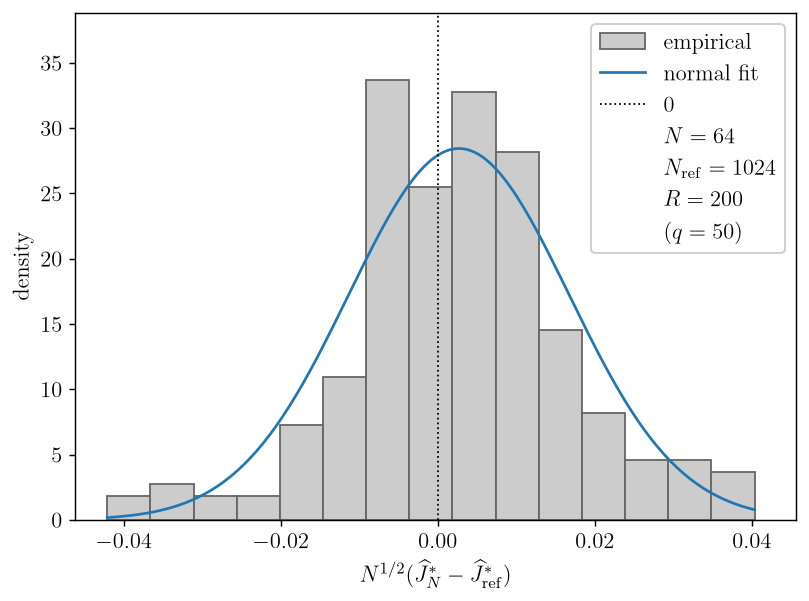
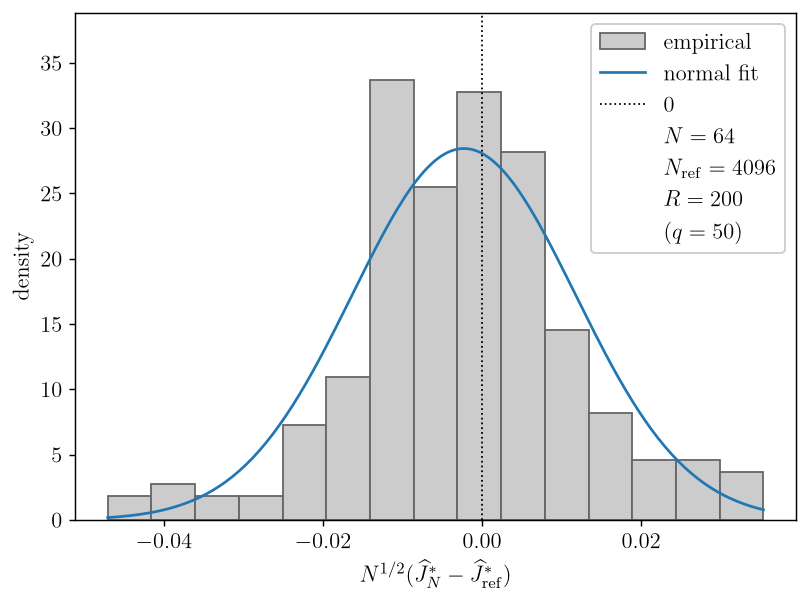
Batch reactor: add CVaR beta=0.5, consistent plot styling, README polish
- Add a 4th policy, CVaR beta=0.5, ordered by risk aversion (nominal /
  risk-neutral / CVaR 0.5 / CVaR 0.95); 4-tuple LINESTYLES/COLORS threaded
  through every overlay, the per-policy control/state plots, and the tables
- Yield distribution: x-axis markers (filled = mean, open = worst-5%) with the
  marker key moved into the legend; consistent per-policy color + line style
  across all figures (fixes cycle-color drift); usetex-safe title/labels
- clt_batch_reactor: N_REF 1024 -> 4096 (reference solve); CLT figures re-rendered
- README: CVaR written as CVaR_beta(F) with the epigraph joint-minimization
  reformulation; all math rewritten in plain LaTeX (drop \left,\Bigl,\;,\!,\text
  so GitHub renders it); MPLBACKEND=Agg note removed; "s.d." spelled out; beta=0.5
  woven through the tables and narrative; section retitled
- Regenerate all affected figures in usetex for font consistency

diff --git a/demo/batch_reactor/saa_batch_reactor.py b/demo/batch_reactor/saa_batch_reactor.py
@@ -61,7 +61,8 @@ OOS_SIZE = 512      # fresh out-of-sample draw for the OOS-s.d. plug-in
 STEPS = 10          # RK4 sub-steps per control interval (accurate rollout)
 T_LO, T_HI = 340.0, 420.0       # temperature box (control bounds)
 K20_LO, K20_HI = 500.0, 2000.0  # k20 uncertainty interval (Sec. 3.1)
-LINESTYLES = ("-", "--", "-.")  # nominal / risk-neutral / CVaR -- distinct line types
+LINESTYLES = ("-", "--", "-.", ":")   # nominal / risk-neutral / CVaR 0.5 / CVaR 0.95
+COLORS = ("C0", "C1", "C2", "C3")     # same order -- consistent across every figure
 
 
 def make_sampler():
@@ -140,14 +141,15 @@ def b_trajectory_stats(model, w_opt, samples):
     return tgrid, B.mean(axis=0), B.std(axis=0)
 
 
-def plot_states_B(prefix, label, tgrid, mean, std, ylim):
-    # Product-only state plot: the [B] ensemble mean E[B(t, xi)] with a +/- 3 s.d.
-    # band over the k20 draw -> output/controls-state/<prefix>_states.png. The
-    # y-axis is shared across policies for a direct spread comparison.
+def plot_states_B(prefix, label, tgrid, mean, std, ylim, color="C1"):
+    # Product-only state plot: the [B] ensemble mean E[B(t, xi)] with a +/- 3
+    # standard-deviation band over the k20 draw -> output/controls-state/
+    # <prefix>_states.png. The y-axis is shared across policies for a direct spread
+    # comparison; the color matches the policy's color in the overlay figures.
     fig, ax = plt.subplots()
-    ax.plot(tgrid, mean, color="C1", label=r"%s  $\mathbb{E}[B(t,\xi)]$" % label)
-    ax.fill_between(tgrid, mean - 3.0 * std, mean + 3.0 * std, color="C1",
-                    alpha=0.2, label=r"$\pm 3$ s.d.")
+    ax.plot(tgrid, mean, color=color, label=r"%s  $\mathbb{E}[B(t,\xi)]$" % label)
+    ax.fill_between(tgrid, mean - 3.0 * std, mean + 3.0 * std, color=color,
+                    alpha=0.2, label=r"$\pm 3$ standard deviations")
     ax.set_ylim(*ylim)
     ax.set_xlabel(r"$t$")
     ax.set_ylabel(r"$[B]$")
@@ -163,9 +165,10 @@ def plot_all_controls(model, policies, savepath):
     # over (t_k, t_{k+1}]); the leading NaN matches len(tgrid).
     tgrid = np.array([model.mesh_width * k for k in range(model.nintervals + 1)])
     fig, ax = plt.subplots()
-    for (label, w_opt), ls in zip(policies, LINESTYLES):
+    for (label, w_opt), ls, color in zip(policies, LINESTYLES, COLORS):
         u = np.asarray(w_opt, float).ravel()[:model.nintervals]   # front block = T(t)
-        ax.step(tgrid, np.concatenate([[np.nan], u]), where="pre", ls=ls, label=label)
+        ax.step(tgrid, np.concatenate([[np.nan], u]), where="pre", ls=ls,
+                color=color, label=label)
     ax.set_ylim(T_LO, T_HI)
     ax.set_yticks(np.arange(T_LO, T_HI + 1.0, 20.0))
     ax.set_xlabel(r"$t$")
@@ -193,8 +196,9 @@ def plot_yield_vs_k20(model, policies, savepath):
     # nominal k20 for a flatter, higher curve in the worst-case tail).
     k20_grid = np.linspace(K20_LO, K20_HI, 151)
     fig, ax = plt.subplots()
-    for (label, w_opt), ls in zip(policies, LINESTYLES):
-        ax.plot(k20_grid, terminal_B(model, w_opt, k20_grid), ls=ls, label=label)
+    for (label, w_opt), ls, color in zip(policies, LINESTYLES, COLORS):
+        ax.plot(k20_grid, terminal_B(model, w_opt, k20_grid), ls=ls, color=color,
+                label=label)
     ax.axvline(1000.0, color="0.6", lw=0.8, ls=":")      # nominal k20
     ax.set_xlabel(r"$k_{20}$")
     ax.set_ylabel(r"$[B](t_f)$")
@@ -227,20 +231,31 @@ def risk_illustration(model, policies, savepath, n_oos=2000, seed=7):
     fig, ax = plt.subplots()
     print("\n{:>16s}  {:>10s}  {:>12s}  {:>10s}".format(
         "policy", "E[B]", "worst-5% B", "min B"))
-    for label, w_opt in policies:
+    for (label, w_opt), ls, color in zip(policies, LINESTYLES, COLORS):
         B = terminal_B(model, w_opt, oos)
         var5 = np.quantile(B, 0.05)                  # 5% Value-at-Risk (yield)
         cvar5 = float(B[B <= var5].mean())           # mean of the worst 5% yields
-        _, _, patches = ax.hist(B, bins=50, histtype="step", density=True, lw=1.5,
-                                label=label)
-        color = patches[0].get_edgecolor()
-        ax.axvline(float(B.mean()), color=color, ls="-", lw=1.0)   # mean
-        ax.axvline(cvar5, color=color, ls="--", lw=1.0)            # worst-5% mean
+        # Per-policy line style AND color (solid/dashed/dash-dot, C0/C1/C2) match the
+        # control and yield-vs-k20 plots, so a policy reads the same way everywhere.
+        ax.hist(B, bins=50, histtype="step", density=True, lw=1.5,
+                ls=ls, color=color, label=label)
+        mean_B = float(B.mean())
+        # Mean and worst-5% marked on the x-axis (clearer than thin full-height guide
+        # lines against the histogram): filled up-triangle = mean, open = worst-5%.
+        ax.plot(mean_B, 0, marker="^", color=color, ms=9,
+                clip_on=False, zorder=5)
+        ax.plot(cvar5, 0, marker="^", mfc="white", mec=color, mew=1.3, ms=9,
+                clip_on=False, zorder=5)
         print("{:>16s}  {:>10.4f}  {:>12.4f}  {:>10.4f}".format(
             label, float(B.mean()), cvar5, float(B.min())))
     ax.set_xlabel(r"$[B](t_f)$")
     ax.set_ylabel(r"density over $k_{20}\sim$ truncnorm")
-    ax.set_title(r"solid = mean $\mathbb{E}[B]$,  dashed = worst-5\% mean")
+    # Neutral proxy handles so the legend (not the title) explains the marker shapes;
+    # color still encodes the policy. Filled = mean, open = worst-5% mean.
+    ax.plot([], [], ls="none", marker="^", color="0.3", ms=9,
+            label=r"mean $\mathbb{E}[B]$")
+    ax.plot([], [], ls="none", marker="^", mfc="white", mec="0.3", mew=1.3, ms=9,
+            label=r"worst-5\% mean")
     ax.grid(True)
     ax.legend()
     fig.savefig(savepath)
@@ -289,12 +304,17 @@ def main():
     saa_rn, w_rn = solves[N_full][0], solves[N_full][1]
 
     # CVaR risk-averse on the SAME N-scenario ensemble (beta -> 1 approaches the
-    # paper's minimax / worst case): beta = 0.95 optimizes the mean of the worst 5%
-    # terminal-yield tail.
+    # paper's minimax / worst case). Two points on the risk-aversion dial: beta = 0.5
+    # optimizes the mean of the worst 50% terminal-yield tail, beta = 0.95 the worst
+    # 5%. beta = 0.95 is the one carried into the statistical-inference section below.
+    beta_mid = 0.5
+    saa_cv_mid, w_cv_mid, _ = solve_saa(model, samples, beta=beta_mid)
+    cvar_mid_label = r"CVaR $\beta={}$".format(beta_mid)
     beta = 0.95
     saa_cv, w_cv, f_cv = solve_saa(model, samples, beta=beta)
     cvar_label = r"CVaR $\beta={}$".format(beta)
-    policies = [("nominal", w_nom), ("risk-neutral", w_rn), (cvar_label, w_cv)]
+    policies = [("nominal", w_nom), ("risk-neutral", w_rn),
+                (cvar_mid_label, w_cv_mid), (cvar_label, w_cv)]
 
     # Per-policy control trajectories, then the product-only B-state ensembles.
     # Every control is simulated across the SAME full k20 ensemble, so the +/- 3
@@ -303,17 +323,20 @@ def main():
     # y-axis (the nominal control, tuned to k20 = 1000, spreads most in the tail).
     plot_control(saa_nom, w_nom, "nominal", "nominal")
     plot_control(saa_rn, w_rn, "risk-neutral", "risk-neutral")
+    plot_control(saa_cv_mid, w_cv_mid, "cvar-{:.2f}".format(beta_mid), cvar_mid_label)
     plot_control(saa_cv, w_cv, "cvar-{:.2f}".format(beta), cvar_label)
 
     state_specs = [("nominal", "nominal", w_nom),
                    ("risk-neutral", "risk-neutral", w_rn),
+                   ("cvar-{:.2f}".format(beta_mid), cvar_mid_label, w_cv_mid),
                    ("cvar-{:.2f}".format(beta), cvar_label, w_cv)]
     stats = {prefix: b_trajectory_stats(model, w, samples)
              for prefix, _, w in state_specs}
     ymax = max(float((m + 3.0 * s).max()) for _, m, s in stats.values())
-    for prefix, lab, _ in state_specs:
+    for (prefix, lab, _), color in zip(state_specs, COLORS):
         tgrid, mean, std = stats[prefix]
-        plot_states_B(prefix, lab, tgrid, mean, std, ylim=(0.0, 1.05 * ymax))
+        plot_states_B(prefix, lab, tgrid, mean, std, ylim=(0.0, 1.05 * ymax),
+                      color=color)
 
     # Paper Table 1 + Figure 2 from the solved controls; the all-policy control
     # overlay; and the out-of-sample yield distribution illustrating the risk
@@ -412,7 +435,7 @@ def main():
     # reported below (subtract from 0 to read it as a bound on the expected yield).
     print("\n95% confidence interval for J_hat_N* = E[-B] (N = {}):".format(N_full))
     if plugin95 is not None:
-        print("  plug-in (in-sample s.d.) : [{:.6e}, {:.6e}]  half-width {:.6e}"
+        print("  plug-in (in-sample standard deviation) : [{:.6e}, {:.6e}]  half-width {:.6e}"
               .format(plugin95["lo"], plugin95["hi"], plugin95["halfwidth"]))
     if oos95 is not None:
         print("  plug-in (out-of-sample)  : [{:.6e}, {:.6e}]  half-width {:.6e}"

diff --git a/demo/batch_reactor/clt_batch_reactor.py b/demo/batch_reactor/clt_batch_reactor.py
@@ -79,7 +79,7 @@ def make_ipopt_solve(model, tol=1e-8):
 
 # -- study parameters --------------------------------------------------------
 NS = (32, 64, 128)     # sample sizes for the statistic
-N_REF = 1024           # independent reference sample size (proxies J*)
+N_REF = 4096           # independent reference sample size (proxies J*)
 R = 200                # replicate SAA solves per sample size
 ROOT_SEED = 12345      # root entropy; independent child streams are spawned from it
 

diff --git a/demo/batch_reactor/README.md b/demo/batch_reactor/README.md
@@ -17,7 +17,7 @@ The paper's three strategies map directly onto the sample-average approximation
 | --- | --- | --- |
 | nominal | **nominal** | solve at the mean $k_{20} = 1000$ |
 | robust ($\min_u \mathbb{E}[J]$) | **risk-neutral SAA** | optimize the *expected* yield over $k_{20}$ |
-| minimax (worst case) | **CVaR risk-averse** | optimize the worst $(1-\beta)$ tail; $\beta \to 1 \approx$ minimax |
+| minimax (worst case) | **CVaR risk-averse** ($\beta = 0.5, 0.95$) | optimize the worst $(1-\beta)$ tail; two points on the risk dial, $\beta \to 1 \approx$ minimax |
 
 ## The model — [batch_reactor.py](batch_reactor.py)
 
@@ -26,7 +26,7 @@ With $x_1 = [A]$ and $x_2 = [B]$:
 - **State** $x = (x_1, x_2) \in \mathbb{R}^2$, **control** $T(t)$ (temperature),
   **horizon** $t_f = 1$.
 - **Dynamics** (dimensionless, Eqs. 22–23; $[C]$ eliminated by the mass balance
-  $[A] + 2[B] + 2[C] = \text{const}$):
+  $[A] + 2[B] + 2[C] = \mathrm{const}$):
 
 $$
 \dot{x}_1 = -2 k_1 x_1^2, \qquad
@@ -63,11 +63,6 @@ python saa_batch_reactor.py   # policies + control/state + yield + confidence in
 python clt_batch_reactor.py   # central-limit-theorem study
 ```
 
-The drivers only ever `savefig` (they never call `plt.show()`), so any matplotlib
-backend works — `MPLBACKEND=Agg` is **not** required. On a headless machine, prefix
-the command with it to force the non-interactive backend, e.g.
-`MPLBACKEND=Agg python saa_batch_reactor.py`.
-
 `saa_batch_reactor.py` solves the nominal, risk-neutral, and CVaR ($\beta = 0.95$)
 policies with **IPOPT**; writes the control overlay and per-policy control/state
 plots to [output/controls-state/](output/controls-state/); writes the
@@ -103,66 +98,66 @@ fast decomposition). Writing the per-scenario loss $F_i = -x_2(t_f, \xi_i)$, the
 empirical CVaR of the loss $F$ has the Rockafellar–Uryasev variational form
 
 $$
-\mathrm{CVaR}_\beta(F) = \min_{t \in \mathbb{R}} \left\{ t + \frac{1}{(1-\beta)N}\sum_{i=1}^{N}(F_i - t)_+ \right\},
-\qquad (y)_+ = \max\{y, 0\},
+\mathrm{CVaR}_\beta(F) = \min_{t \in \mathbb{R}} \{ t + \frac{1}{(1-\beta)N}\sum_{i=1}^{N}(F_i - t)_+ \},
 $$
 
-where $t$ is the Value-at-Risk level. Introducing one slack $s_i$ per scenario to
-lift each $(F_i - t)_+$ turns the SAA into a smooth joint minimization over the
-control $u$, the threshold $t$, and the slacks $s$ — a deterministic
-multi-scenario optimal control problem (implemented in
-[`risk_measures.py`](../../src/ensemblecontrol/risk_measures.py)):
+where $(y)_+ = \max\{y, 0\}$ is the positive part and $t$ is the Value-at-Risk
+level. Introducing one slack $s_i$ per scenario to lift each $(F_i - t)_+$ turns the
+SAA into a smooth joint minimization over the control $u$, the threshold $t$, and
+the slacks $s$ — a deterministic multi-scenario optimal control problem
+(implemented in [`risk_measures.py`](../../src/ensemblecontrol/risk_measures.py)):
 
 $$
-\begin{aligned}
-\min_{u, t, s} \quad & t + \frac{1}{(1-\beta)N}\sum_{i=1}^{N} s_i \\
-\text{s.t.} \quad & s_i \ge F_i - t, \quad s_i \ge 0, \quad i = 1, \ldots, N.
-\end{aligned}
+\min_{u, t, s} t + \frac{1}{(1-\beta)N}\sum_{i=1}^{N} s_i
 $$
 
-The scenarios couple only through the shared control $u$ and threshold $t$. Here
-$\beta = 0.95$; $\beta \to 1$ approaches the paper's **minimax** (worst-case)
-policy.
+subject to $s_i \ge F_i - t$ and $s_i \ge 0$ for $i = 1, \ldots, N$. The scenarios
+couple only through the shared control $u$ and threshold $t$. We solve two points on
+the risk-aversion dial, $\beta = 0.5$ and $\beta = 0.95$ (the mean over the worst
+50% and the worst 5% of scenarios); $\beta \to 1$ approaches the paper's **minimax**
+(worst-case) policy.
 
 ## Control profiles
 
-The optimal temperature profiles $T(t)$ for the three policies, overlaid on the
-$[340, 420]$ box (each policy drawn with a distinct line style): hot early to drive
-the main reaction, then cooling toward the end to suppress the $B \to C$
-decomposition — the CVaR profile runs coolest through the tail-sensitive second
-half.
+The optimal temperature profiles $T(t)$ for the four policies, overlaid on the
+$[340, 420]$ box (each policy drawn with a distinct color and line style): hot early
+to drive the main reaction, then cooling toward the end to suppress the $B \to C$
+decomposition — the more risk-averse the policy, the cooler it runs through the
+tail-sensitive second half, with CVaR $\beta = 0.95$ coolest and $\beta = 0.5$
+sitting between it and risk-neutral.
 
 ![all controls](output/controls-state/all_controls.png)
 
 Per-policy temperature profiles are in
 [output/controls-state/](output/controls-state/) as
-`{nominal,risk-neutral,cvar-0.95}_control.png`.
+`{nominal,risk-neutral,cvar-0.50,cvar-0.95}_control.png`.
 
 The corresponding **product state** $[B](t)$ — its ensemble mean
-$\mathbb{E}[B(t, \xi)]$ with a $\pm 3$ s.d. band, obtained by simulating each fixed
+$\mathbb{E}[B(t, \xi)]$ with a $\pm 3$ standard-deviation band, obtained by simulating each fixed
 control across the *same* $k_{20}$ ensemble (so even the nominal policy, whose own
 solve carries a single scenario, shows a meaningful spread) on a shared $y$-axis —
 makes the robustness ordering visible: the nominal control, tuned to $k_{20} = 1000$,
-spreads most through the tail-sensitive second half; risk-neutral is tighter; CVaR
-is tightest.
+spreads most through the tail-sensitive second half; risk-neutral is tighter, CVaR
+$\beta = 0.5$ tighter still, and CVaR $\beta = 0.95$ tightest.
 
-| nominal | risk-neutral | CVaR $\beta = 0.95$ |
-| --- | --- | --- |
-| ![nominal B](output/controls-state/nominal_states.png) | ![risk-neutral B](output/controls-state/risk-neutral_states.png) | ![CVaR B](output/controls-state/cvar-0.95_states.png) |
+| nominal | risk-neutral | CVaR $\beta = 0.5$ | CVaR $\beta = 0.95$ |
+| --- | --- | --- | --- |
+| ![nominal B](output/controls-state/nominal_states.png) | ![risk-neutral B](output/controls-state/risk-neutral_states.png) | ![CVaR 0.5 B](output/controls-state/cvar-0.50_states.png) | ![CVaR 0.95 B](output/controls-state/cvar-0.95_states.png) |
 
 ## The mean–tail trade-off out of sample
 
 The control is fixed before $k_{20}$ is known, so a good policy must hedge the
 whole distribution. **Per scenario**, the terminal yield as a function of $k_{20}$
 (the paper's Figure 2) shows the trade-off: the nominal policy peaks near
-$k_{20} = 1000$ but plunges in the tail; risk-neutral is flatter; CVaR is flattest.
+$k_{20} = 1000$ but plunges in the tail; risk-neutral is flatter, CVaR $\beta = 0.5$
+flatter still, and CVaR $\beta = 0.95$ is flattest.
 
 ![yield vs k20](output/yield_vs_k20.png)
 
 **Aggregated** over a large independent out-of-sample draw
 $k_{20} \sim \mathrm{TruncatedNormal}(1000, 500)$, the histogram of the terminal
-yield $[B]$ under each policy (solid vertical line = the mean $\mathbb{E}[B]$;
-dashed vertical line = the *worst-5% mean*) makes the ordering precise:
+yield $[B]$ under each policy (filled marker = the mean $\mathbb{E}[B]$; open marker
+= the *worst-5% mean*, both on the $x$-axis) makes the ordering precise:
 
 ![yield distribution](output/yield_distribution.png)
 
@@ -176,13 +171,18 @@ better worst case.
 | --- | ---: | ---: | ---: |
 | nominal | 0.3684 | 0.3210 | 0.3062 |
 | risk-neutral (robust) | **0.3689** | 0.3324 | 0.3211 |
+| CVaR, $\beta = 0.5$ | 0.3671 | 0.3429 | 0.3357 |
 | CVaR, $\beta = 0.95$ | 0.3620 | **0.3468** | **0.3425** |
 
 - **Risk-neutral beats nominal** on the *mean* yield ($0.3689 > 0.3684$): tuning to
   $k_{20} = 1000$ alone leaves expected yield on the table across the distribution.
-- **CVaR beats risk-neutral** on the *tail* (worst-5% mean $0.3468 > 0.3324$; worst
-  case $0.3425 > 0.3211$): it accepts a lower mean ($0.3620$) to lift the worst
-  outcomes — the risk-averse choice when a bad batch is costly.
+- **CVaR $\beta = 0.95$ beats risk-neutral** on the *tail* (worst-5% mean
+  $0.3468 > 0.3324$; worst case $0.3425 > 0.3211$): it accepts a lower mean
+  ($0.3620$) to lift the worst outcomes — the risk-averse choice when a bad batch is
+  costly.
+- **CVaR $\beta = 0.5$ is the intermediate dial setting**: it captures most of the
+  tail gain (worst-5% mean $0.3429$) for almost no loss of mean yield ($0.3671$),
+  interpolating between risk-neutral and $\beta = 0.95$.
 
 (The nominal yield at $k_{20} = 1000$ is $\approx 0.377$, matching the paper's
 Table 1 value $0.3773$.)
